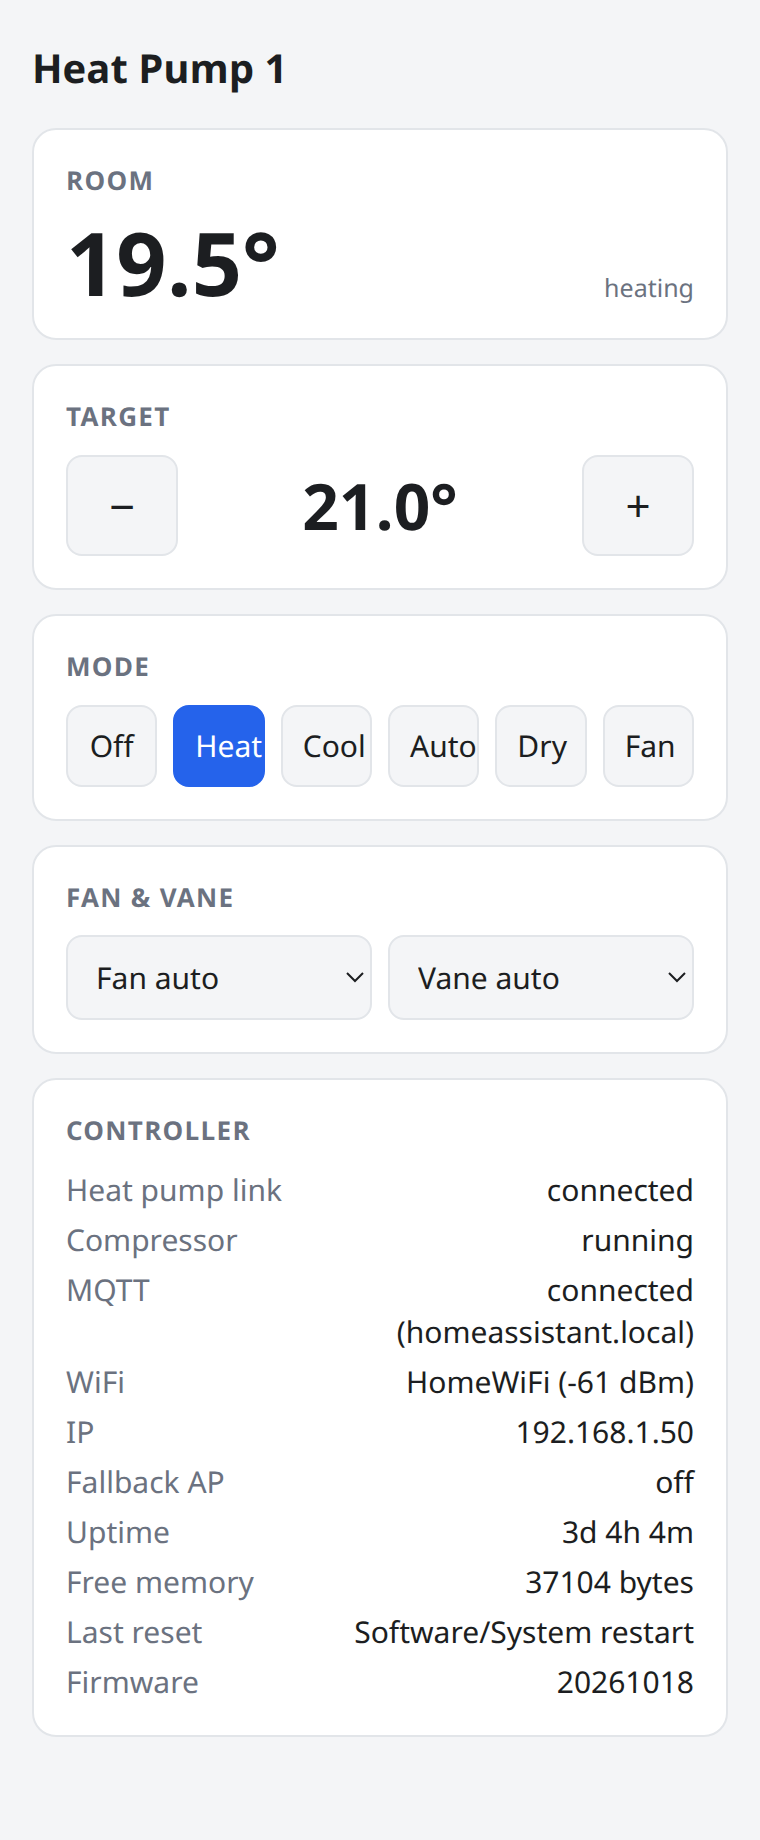
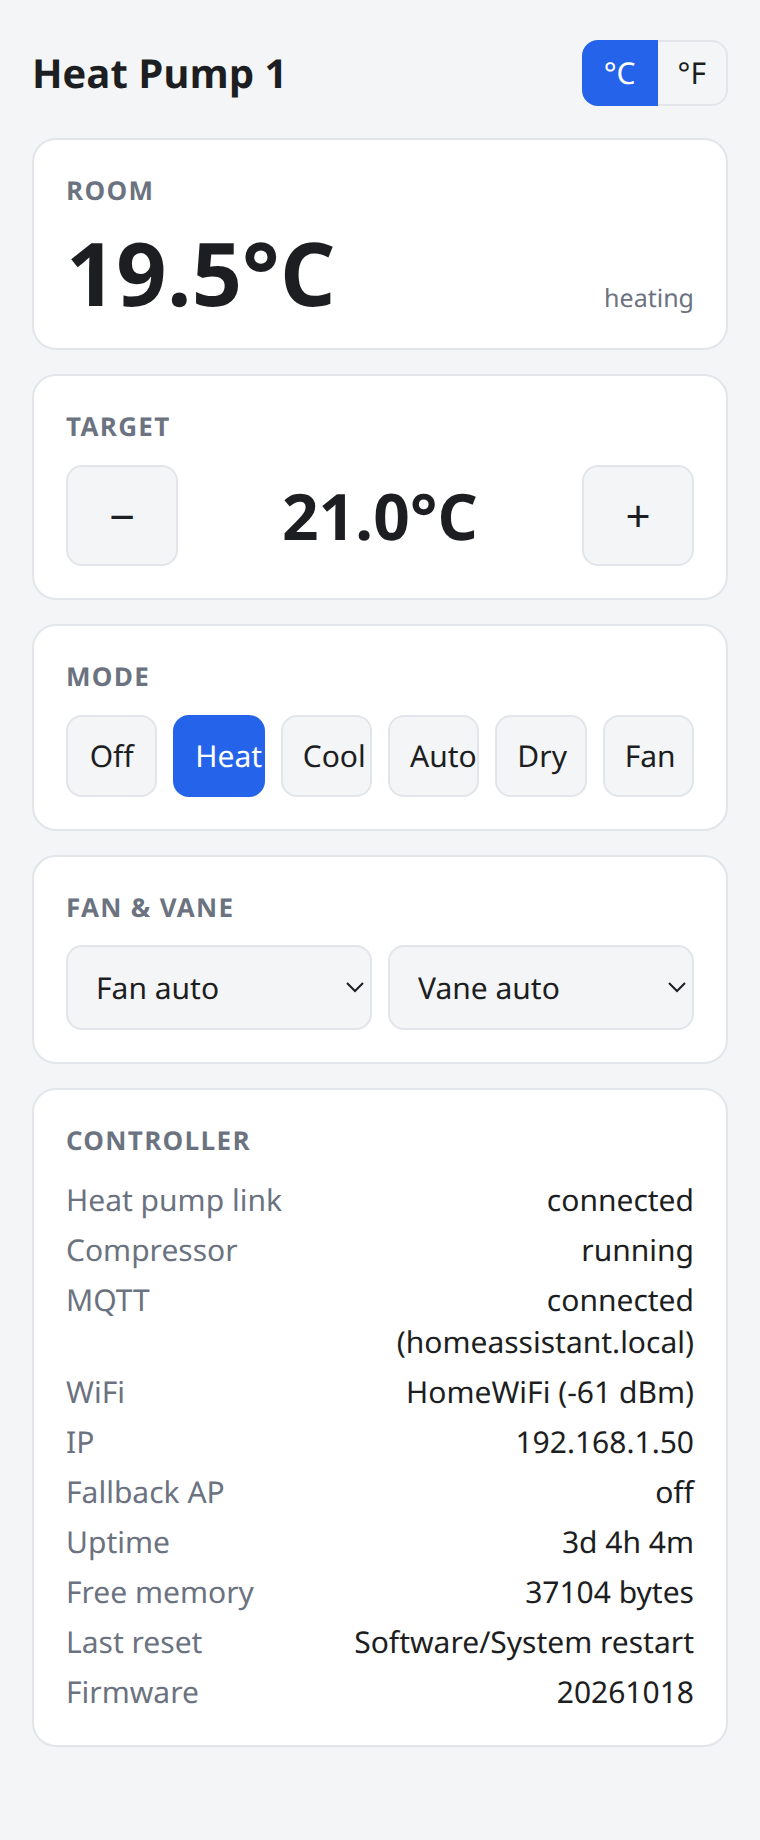
Add °C/°F display toggle to web UI, update Fahrenheit note
The controller and Home Assistant keep exchanging Celsius; the toggle
only changes how the status page shows temperatures and is remembered
per browser. In °F the +/- buttons step 1°F and send the nearest
Celsius value allowed by the configured temperature step.

Replace the stale "cannot use fahrenheit" known issue: Home Assistant
converts automatically since temperature_unit is set in discovery.

diff --git a/mitsucon/webui.h b/mitsucon/webui.h
@@ -14,13 +14,16 @@ button{cursor:pointer}button.on{background:var(--acc);border-color:var(--acc);co
 .set{display:flex;align-items:center;gap:12px}.set b{font-size:32px;flex:1;text-align:center}.set button{flex:0 0 56px;font-size:22px}
 dl{display:grid;grid-template-columns:auto 1fr;gap:4px 16px;margin:0}dt{color:var(--mute)}dd{margin:0;text-align:right;overflow-wrap:anywhere}
 label{display:block;margin:10px 0 4px;color:var(--mute)}input{width:100%}a{color:var(--acc)}
+.top{display:flex;justify-content:space-between;align-items:center;gap:12px;margin:4px 0 16px}.top h1{margin:0}
+.seg{display:flex;flex:0 0 auto}.seg button{padding:5px 10px;border-radius:0}.seg button:first-child{border-radius:8px 0 0 8px}.seg button:last-child{border-radius:0 8px 8px 0;border-left:0}
 .heat{color:var(--hot)}.cool{color:var(--cold)}#msg{min-height:1.4em;color:var(--mute)}
 </style>
 )rawliteral";
 
 const char PAGE_INDEX[] PROGMEM = R"rawliteral(
 <main>
-<h1 id="name">Heat Pump</h1>
+<div class="top"><h1 id="name">Heat Pump</h1>
+ <div class="seg" id="units"><button data-u="C" onclick="setUnit('C')">&deg;C</button><button data-u="F" onclick="setUnit('F')">&deg;F</button></div></div>
 <div class="card"><h2>Room</h2>
  <div class="big"><b id="room">--</b><small id="action">--</small></div></div>
 <div class="card"><h2>Target</h2>
@@ -39,6 +42,16 @@ const FANS=['auto','quiet','1','2','3','4'],VANES=['auto','1','2','3','4','5','s
 let st=null,pending=null,timer=null;
 const $=id=>document.getElementById(id);
 const esc=t=>String(t).replace(/[&<>"]/g,c=>({'&':'&amp;','<':'&lt;','>':'&gt;','"':'&quot;'})[c]);
+// display unit only, the controller and Home Assistant always exchange Celsius
+let unit='C';try{unit=localStorage.getItem('unit')||'C'}catch(e){}
+const toF=c=>c*9/5+32;
+const fmt=c=>unit=='F'?Math.round(toF(c))+'\u00b0F':c.toFixed(1)+'\u00b0C';
+function setUnit(u){
+ unit=u;try{localStorage.setItem('unit',u)}catch(e){}
+ document.querySelectorAll('#units button').forEach(b=>b.classList.toggle('on',b.dataset.u==u));
+ if(st)render(st);if(pending!==null)$('target').textContent=fmt(pending);
+}
+setUnit(unit);
 $('modes').innerHTML=MODES.map(m=>`<button data-m="${m[0]}" onclick="send('mode','${m[0]}')">${m[1]}</button>`).join('');
 $('fan').innerHTML=FANS.map(f=>`<option value="${f}">Fan ${f}</option>`).join('');
 $('vane').innerHTML=VANES.map(v=>`<option value="${v}">Vane ${v}</option>`).join('');
@@ -49,9 +62,9 @@ function up(t){
 function render(s){
  st=s;const hp=s.hp;
  document.title=s.name;$('name').textContent=s.name;
- $('room').textContent=hp.connected&&hp.roomTemperature?hp.roomTemperature.toFixed(1)+'°':'--';
+ $('room').textContent=hp.connected&&hp.roomTemperature?fmt(hp.roomTemperature):'--';
  const a=hp.action;$('action').textContent=a;$('action').className=a=='heating'?'heat':a=='cooling'?'cool':'';
- if(pending===null)$('target').textContent=hp.temperature.toFixed(1)+'°';
+ if(pending===null)$('target').textContent=fmt(hp.temperature);
  document.querySelectorAll('#modes button').forEach(b=>b.classList.toggle('on',b.dataset.m==hp.mode));
  if(document.activeElement!==$('fan'))$('fan').value=hp.fan;
  if(document.activeElement!==$('vane'))$('vane').value=hp.vane;
@@ -64,8 +77,14 @@ function render(s){
 }
 function step(dir){
  if(!st)return;const l=st.limits;
- let t=(pending===null?st.hp.temperature:pending)+dir*l.step;t=Math.min(l.max,Math.max(l.min,t));
- pending=t;$('target').textContent=t.toFixed(1)+'°';
+ const cur=pending===null?st.hp.temperature:pending;let t=cur+dir*l.step;
+ if(unit=='F'){
+  // step 1 degree F, send the nearest Celsius value the unit accepts
+  let f=Math.round(toF(cur));t=cur;
+  for(let i=0;i<6&&t==cur;i++){f+=dir;t=Math.round((f-32)*5/9/l.step)*l.step;}
+ }
+ t=Math.min(l.max,Math.max(l.min,t));
+ pending=t;$('target').textContent=fmt(t);
  clearTimeout(timer);timer=setTimeout(()=>{send('temp',pending);pending=null},800);
 }
 async function send(k,v){

diff --git a/README.md b/README.md
@@ -31,7 +31,7 @@ python3 ~/.arduino15/packages/esp8266/hardware/esp8266/3.1.2/tools/espota.py -i 
 ```
 
 ## Web interface
-Each controller serves a status/control page at `http://<controller>/`. Settings (WiFi, MQTT) and reboot at `/config` are open; firmware upload (`/update`) requires user `admin` with the OTA password.
+Each controller serves a status/control page at `http://<controller>/`. Temperatures can be shown in °C or °F (remembered per browser). Settings (WiFi, MQTT) and reboot at `/config` are open; firmware upload (`/update`) requires user `admin` with the OTA password.
 
 <img src="docs/screenshots/web-status.png" width="300" alt="Status and controls page"> <img src="docs/screenshots/web-settings.png" width="300" alt="Settings page">
 
@@ -44,7 +44,7 @@ Tested on Wemos D1 mini board with Home Assistant 0.96 and Mosquitto broker add-
 ## Known Issues
 * Sometimes heat pump unit turns off instead when send temperature changing command.
 * When change setting on HA UI, change will effect immediately but UI will delay for next data pull to refresh new status.
-* Cannot use imperial (fahrenheit) unit. Waiting for Home Assistant support soon.
+* The controller always works in Celsius. Home Assistant converts to °F automatically when its unit system is set to US customary, and the web interface has a °C/°F display toggle.
 
 ## Classic Code
 The Classic folder is a code proven to working well on Home Assistant < 0.100.0. It has 2 parts:
